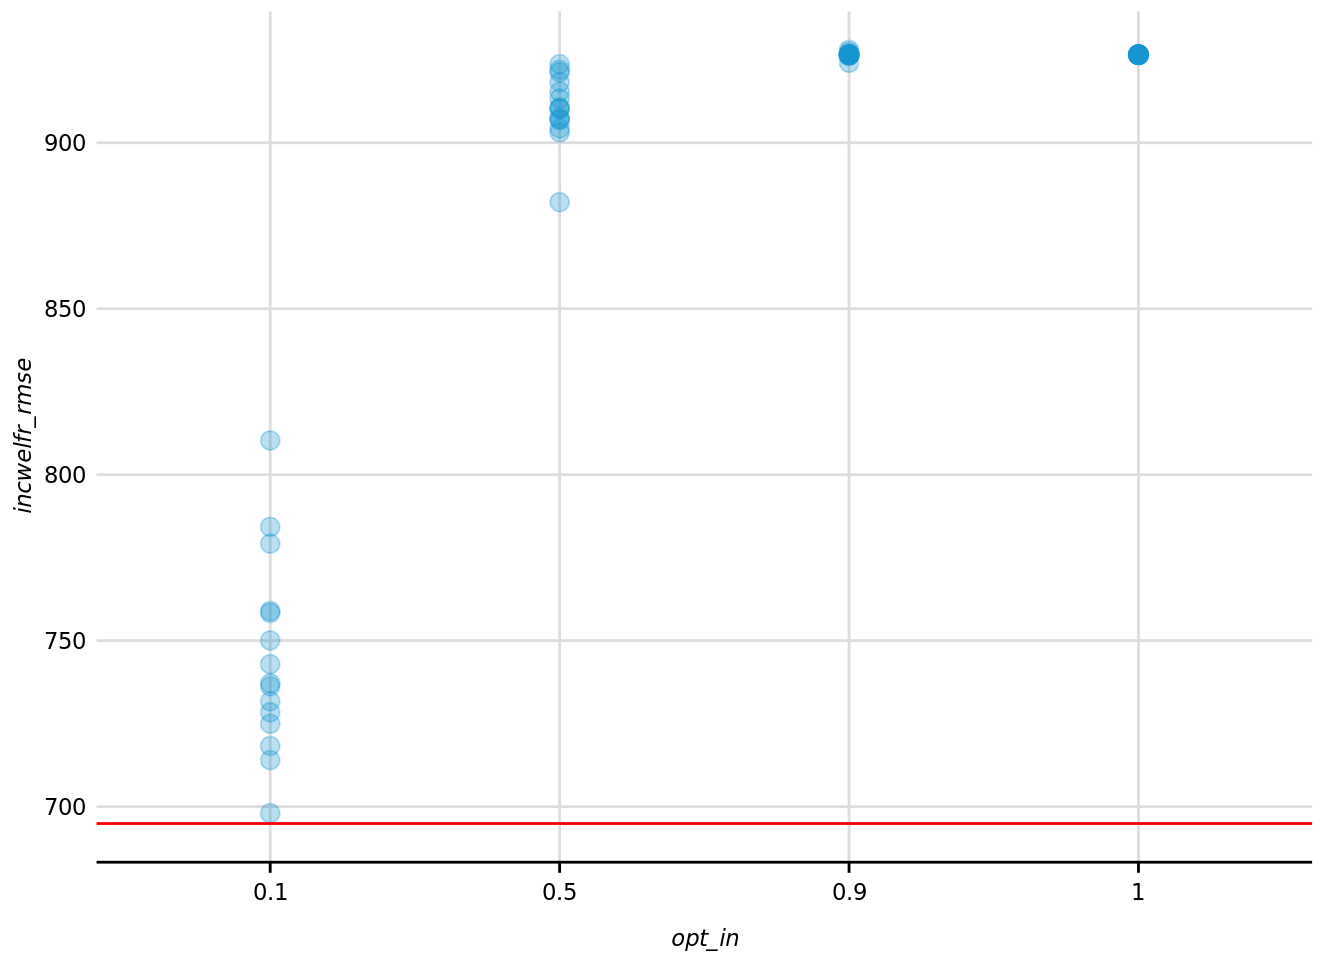
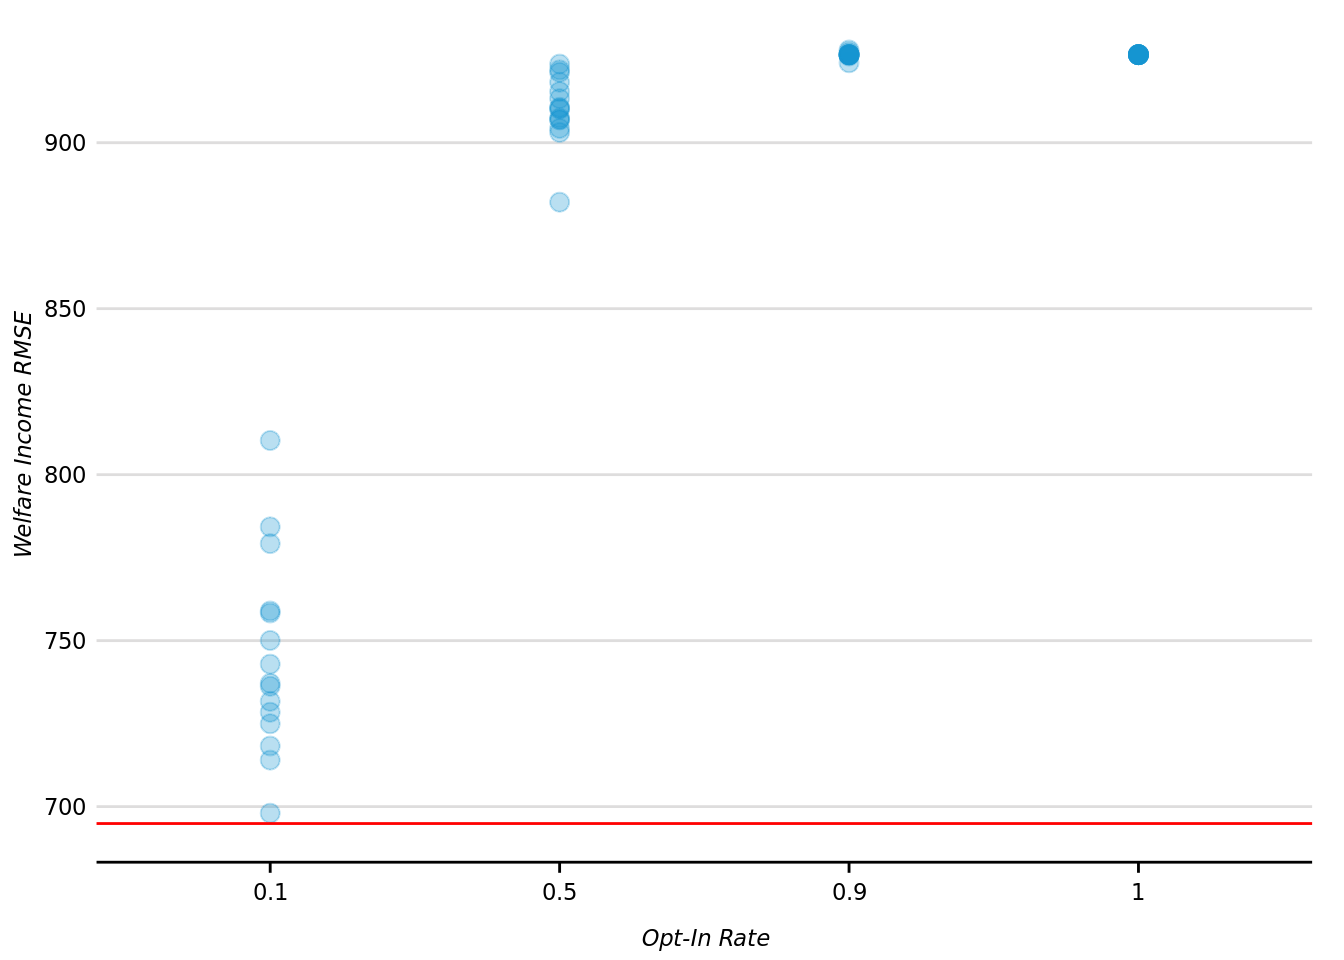
Update attribute inference attack plot with labels

Changed region(s): [[0.0, 0.3125, 0.0312, 0.5938], [0.4688, 0.9688, 0.5625, 1.0]]

diff --git a/analysis/14_evaluate-synthetic-acs.html b/analysis/14_evaluate-synthetic-acs.html
@@ -778,35 +778,53 @@ code span.wa { color: #60a0b0; font-weight: bold; font-style: italic; } /* Warni
 <span id="cb28-12"><a href="#cb28-12" aria-hidden="true" tabindex="-1"></a>  <span class="fu">ggplot</span>(<span class="fu">aes</span>(opt_in, incwelfr_rmse)) <span class="sc">+</span></span>
 <span id="cb28-13"><a href="#cb28-13" aria-hidden="true" tabindex="-1"></a>  <span class="fu">geom_point</span>(<span class="at">alpha =</span> <span class="fl">0.3</span>) <span class="sc">+</span></span>
 <span id="cb28-14"><a href="#cb28-14" aria-hidden="true" tabindex="-1"></a>  <span class="fu">geom_hline</span>(<span class="at">yintercept =</span> holdout_rmse, <span class="at">color =</span> <span class="st">"red"</span>) <span class="sc">+</span></span>
-<span id="cb28-15"><a href="#cb28-15" aria-hidden="true" tabindex="-1"></a>  <span class="fu">scatter_grid</span>()</span></code><button title="Copy to Clipboard" class="code-copy-button"><i class="bi"></i></button></pre></div>
+<span id="cb28-15"><a href="#cb28-15" aria-hidden="true" tabindex="-1"></a>  <span class="fu">labs</span>(</span>
+<span id="cb28-16"><a href="#cb28-16" aria-hidden="true" tabindex="-1"></a>    <span class="at">x =</span> <span class="st">"Opt-In Rate"</span>,</span>
+<span id="cb28-17"><a href="#cb28-17" aria-hidden="true" tabindex="-1"></a>    <span class="at">y =</span> <span class="st">"Welfare Income RMSE"</span></span>
+<span id="cb28-18"><a href="#cb28-18" aria-hidden="true" tabindex="-1"></a>  )</span></code><button title="Copy to Clipboard" class="code-copy-button"><i class="bi"></i></button></pre></div>
 <div class="cell-output-display">
 <p><img src="figures/attribute-inference-1.png" class="img-fluid" width="672"></p>
+</div>
+<div class="sourceCode cell-code" id="cb29"><pre class="sourceCode r code-with-copy"><code class="sourceCode r"><span id="cb29-1"><a href="#cb29-1" aria-hidden="true" tabindex="-1"></a>  <span class="fu">scatter_grid</span>()</span></code><button title="Copy to Clipboard" class="code-copy-button"><i class="bi"></i></button></pre></div>
+<div class="cell-output cell-output-stdout">
+<pre><code>List of 1
+ $ panel.grid.major.x:List of 6
+  ..$ colour       : chr "#dedddd"
+  ..$ linewidth    : NULL
+  ..$ linetype     : NULL
+  ..$ lineend      : NULL
+  ..$ arrow        : logi FALSE
+  ..$ inherit.blank: logi FALSE
+  ..- attr(*, "class")= chr [1:2] "element_line" "element"
+ - attr(*, "class")= chr [1:2] "theme" "gg"
+ - attr(*, "complete")= logi FALSE
+ - attr(*, "validate")= logi TRUE</code></pre>
 </div>
 </div>
 </section>
 <section id="membership-inference-test" class="level3">
 <h3 class="anchored" data-anchor-id="membership-inference-test">Membership Inference Test</h3>
 <div class="cell">
-<div class="sourceCode cell-code" id="cb29"><pre class="sourceCode r code-with-copy"><code class="sourceCode r"><span id="cb29-1"><a href="#cb29-1" aria-hidden="true" tabindex="-1"></a><span class="fu">bind_cols</span>(</span>
-<span id="cb29-2"><a href="#cb29-2" aria-hidden="true" tabindex="-1"></a>  specs,</span>
-<span id="cb29-3"><a href="#cb29-3" aria-hidden="true" tabindex="-1"></a>  <span class="at">membership_inference_auc =</span> results <span class="sc">|&gt;</span></span>
-<span id="cb29-4"><a href="#cb29-4" aria-hidden="true" tabindex="-1"></a>    <span class="fu">map</span>(<span class="st">"membership_inference_test"</span>) <span class="sc">|&gt;</span></span>
-<span id="cb29-5"><a href="#cb29-5" aria-hidden="true" tabindex="-1"></a>    <span class="fu">map_dbl</span>(<span class="st">"auc"</span>)</span>
-<span id="cb29-6"><a href="#cb29-6" aria-hidden="true" tabindex="-1"></a>) <span class="sc">|&gt;</span></span>
-<span id="cb29-7"><a href="#cb29-7" aria-hidden="true" tabindex="-1"></a>  <span class="fu">ggplot</span>(<span class="fu">aes</span>(opt_in, membership_inference_auc, <span class="at">color =</span> white_multiplier)) <span class="sc">+</span></span>
-<span id="cb29-8"><a href="#cb29-8" aria-hidden="true" tabindex="-1"></a>  <span class="fu">geom_point</span>(<span class="at">alpha =</span> <span class="fl">0.5</span>) <span class="sc">+</span></span>
-<span id="cb29-9"><a href="#cb29-9" aria-hidden="true" tabindex="-1"></a>  <span class="fu">labs</span>(</span>
-<span id="cb29-10"><a href="#cb29-10" aria-hidden="true" tabindex="-1"></a>    <span class="at">x =</span> <span class="st">"Opt-In Rate"</span>,</span>
-<span id="cb29-11"><a href="#cb29-11" aria-hidden="true" tabindex="-1"></a>    <span class="at">y =</span> <span class="st">"Membership Inference Test AUC"</span>,</span>
-<span id="cb29-12"><a href="#cb29-12" aria-hidden="true" tabindex="-1"></a>    <span class="at">color =</span> <span class="st">"White Multiplier"</span></span>
-<span id="cb29-13"><a href="#cb29-13" aria-hidden="true" tabindex="-1"></a>  ) <span class="sc">+</span></span>
-<span id="cb29-14"><a href="#cb29-14" aria-hidden="true" tabindex="-1"></a>  <span class="fu">scatter_grid</span>()</span></code><button title="Copy to Clipboard" class="code-copy-button"><i class="bi"></i></button></pre></div>
+<div class="sourceCode cell-code" id="cb31"><pre class="sourceCode r code-with-copy"><code class="sourceCode r"><span id="cb31-1"><a href="#cb31-1" aria-hidden="true" tabindex="-1"></a><span class="fu">bind_cols</span>(</span>
+<span id="cb31-2"><a href="#cb31-2" aria-hidden="true" tabindex="-1"></a>  specs,</span>
+<span id="cb31-3"><a href="#cb31-3" aria-hidden="true" tabindex="-1"></a>  <span class="at">membership_inference_auc =</span> results <span class="sc">|&gt;</span></span>
+<span id="cb31-4"><a href="#cb31-4" aria-hidden="true" tabindex="-1"></a>    <span class="fu">map</span>(<span class="st">"membership_inference_test"</span>) <span class="sc">|&gt;</span></span>
+<span id="cb31-5"><a href="#cb31-5" aria-hidden="true" tabindex="-1"></a>    <span class="fu">map_dbl</span>(<span class="st">"auc"</span>)</span>
+<span id="cb31-6"><a href="#cb31-6" aria-hidden="true" tabindex="-1"></a>) <span class="sc">|&gt;</span></span>
+<span id="cb31-7"><a href="#cb31-7" aria-hidden="true" tabindex="-1"></a>  <span class="fu">ggplot</span>(<span class="fu">aes</span>(opt_in, membership_inference_auc, <span class="at">color =</span> white_multiplier)) <span class="sc">+</span></span>
+<span id="cb31-8"><a href="#cb31-8" aria-hidden="true" tabindex="-1"></a>  <span class="fu">geom_point</span>(<span class="at">alpha =</span> <span class="fl">0.5</span>) <span class="sc">+</span></span>
+<span id="cb31-9"><a href="#cb31-9" aria-hidden="true" tabindex="-1"></a>  <span class="fu">labs</span>(</span>
+<span id="cb31-10"><a href="#cb31-10" aria-hidden="true" tabindex="-1"></a>    <span class="at">x =</span> <span class="st">"Opt-In Rate"</span>,</span>
+<span id="cb31-11"><a href="#cb31-11" aria-hidden="true" tabindex="-1"></a>    <span class="at">y =</span> <span class="st">"Membership Inference Test AUC"</span>,</span>
+<span id="cb31-12"><a href="#cb31-12" aria-hidden="true" tabindex="-1"></a>    <span class="at">color =</span> <span class="st">"White Multiplier"</span></span>
+<span id="cb31-13"><a href="#cb31-13" aria-hidden="true" tabindex="-1"></a>  ) <span class="sc">+</span></span>
+<span id="cb31-14"><a href="#cb31-14" aria-hidden="true" tabindex="-1"></a>  <span class="fu">scatter_grid</span>()</span></code><button title="Copy to Clipboard" class="code-copy-button"><i class="bi"></i></button></pre></div>
 <div class="cell-output-display">
 <p><img src="figures/membership-inference-1.png" class="img-fluid" width="672"></p>
 </div>
-<div class="sourceCode cell-code" id="cb30"><pre class="sourceCode r code-with-copy"><code class="sourceCode r"><span id="cb30-1"><a href="#cb30-1" aria-hidden="true" tabindex="-1"></a>results <span class="sc">|&gt;</span></span>
-<span id="cb30-2"><a href="#cb30-2" aria-hidden="true" tabindex="-1"></a>    <span class="fu">map</span>(<span class="st">"membership_inference_test"</span>) <span class="sc">|&gt;</span></span>
-<span id="cb30-3"><a href="#cb30-3" aria-hidden="true" tabindex="-1"></a>    <span class="fu">map</span>(<span class="st">"conf_mat"</span>)</span></code><button title="Copy to Clipboard" class="code-copy-button"><i class="bi"></i></button></pre></div>
+<div class="sourceCode cell-code" id="cb32"><pre class="sourceCode r code-with-copy"><code class="sourceCode r"><span id="cb32-1"><a href="#cb32-1" aria-hidden="true" tabindex="-1"></a>results <span class="sc">|&gt;</span></span>
+<span id="cb32-2"><a href="#cb32-2" aria-hidden="true" tabindex="-1"></a>    <span class="fu">map</span>(<span class="st">"membership_inference_test"</span>) <span class="sc">|&gt;</span></span>
+<span id="cb32-3"><a href="#cb32-3" aria-hidden="true" tabindex="-1"></a>    <span class="fu">map</span>(<span class="st">"conf_mat"</span>)</span></code><button title="Copy to Clipboard" class="code-copy-button"><i class="bi"></i></button></pre></div>
 <div class="cell-output cell-output-stdout">
 <pre><code>[[1]]
           Truth
